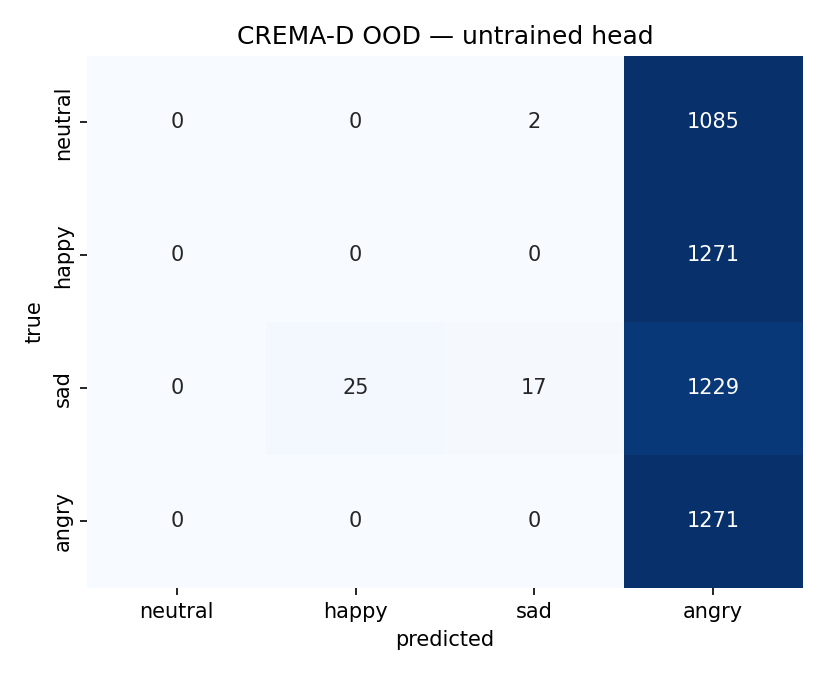
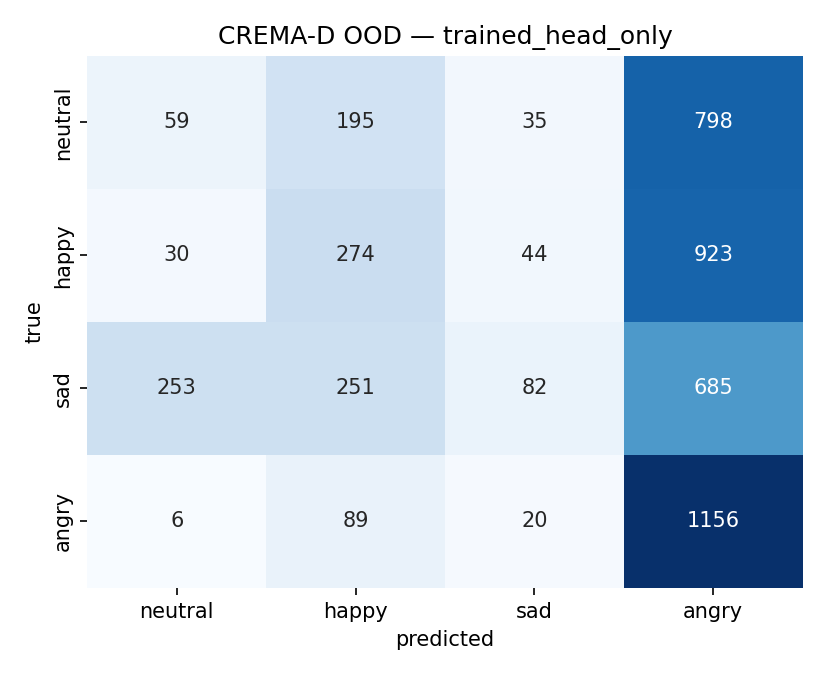
feat: train for 10 epochs, update README + demo with trained numbers
RAVDESS test 29.9% -> 74.3%; CREMA-D OOD 26.3% -> 32.1%. The 42-point drop is the cross-corpus gap the methodology was built to surface.

diff --git a/app/demo.py b/app/demo.py
@@ -12,14 +12,19 @@ import torch
 import torchaudio
 
 sys.path.insert(0, str(Path(__file__).resolve().parent.parent))
-from src.config import LABELS, MAX_SAMPLES, SAMPLE_RATE  # noqa: E402
+from src.config import CHECKPOINT_DIR, LABELS, MAX_SAMPLES, SAMPLE_RATE  # noqa: E402
 from src.model import build_model  # noqa: E402
 
-DISCLAIMER = (
+DISCLAIMER_TRAINED = (
     "### MoodTune — Speech Emotion Recognition\n"
-    "> ⚠ **Work in progress.** The classifier head is currently **untrained** — "
-    "predictions are not meaningful yet. Training is pending on a GPU machine. "
-    "See the README for methodology."
+    "> 4-class classifier (neutral / happy / sad / angry) — Wav2Vec2 with a fine-tuned head. "
+    "Trained on RAVDESS; accuracy is much lower on out-of-distribution speech. "
+    "See the README for methodology and honest cross-corpus numbers."
+)
+DISCLAIMER_UNTRAINED = (
+    "### MoodTune — Speech Emotion Recognition\n"
+    "> ⚠ No checkpoint found at `checkpoints/best.pt` — running with a random classifier head. "
+    "Predictions are **not meaningful**. Train first: `python -m src.train`."
 )
 
 ABOUT = (
@@ -30,16 +35,33 @@ ABOUT = (
 
 _model = None
 _device = None
+_trained = False
 
 
 def _get_model():
-    global _model, _device
+    global _model, _device, _trained
     if _model is None:
-        _device = torch.device("cuda" if torch.cuda.is_available() else "cpu")
+        _device = torch.device(
+            "mps" if torch.backends.mps.is_available()
+            else ("cuda" if torch.cuda.is_available() else "cpu")
+        )
         model, _ = build_model(num_labels=len(LABELS))
+        ckpt_path = CHECKPOINT_DIR / "best.pt"
+        if ckpt_path.exists():
+            ckpt = torch.load(ckpt_path, map_location="cpu", weights_only=True)
+            model.load_state_dict(ckpt["state_dict"])
+            _trained = True
+            print(f"[demo] loaded {ckpt_path}  (val_acc={ckpt.get('val_accuracy', 'n/a')})")
+        else:
+            print("[demo] no checkpoint found — running with random head")
         model.to(_device).eval()
         _model = model
     return _model, _device
+
+
+def _disclaimer() -> str:
+    _get_model()  # triggers _trained
+    return DISCLAIMER_TRAINED if _trained else DISCLAIMER_UNTRAINED
 
 
 def _to_waveform(audio) -> torch.Tensor:
@@ -74,7 +96,7 @@ def predict(audio) -> dict:
 
 def build_app() -> gr.Blocks:
     with gr.Blocks(title="MoodTune") as app:
-        gr.Markdown(DISCLAIMER)
+        gr.Markdown(_disclaimer())
         with gr.Row():
             audio_in = gr.Audio(sources=["upload", "microphone"], type="numpy", label="Audio")
         btn = gr.Button("Analyze", variant="primary")

diff --git a/README.md b/README.md
@@ -24,28 +24,31 @@ RAVDESS ships with 8 emotions. Inter-rater agreement on "fearful" vs. "surprised
 ### Why Wav2Vec2
 Self-supervised pretraining on LibriSpeech gives a strong audio representation for free. Fine-tuning a small classification head on a frozen encoder is the standard 2024 recipe and needs orders of magnitude less data than training from scratch. MoodTune uses `facebook/wav2vec2-base` with the feature encoder frozen; only the projection + classification layers are trainable.
 
-## Current results (untrained classifier head — baseline only)
+## Current results
 
-Zero-shot numbers from `python -m src.evaluate` with a randomly-initialized classifier head on top of a frozen pretrained Wav2Vec2 encoder. A 4-class uniform baseline is 25%, so the model is effectively predicting one or two classes at random:
+10 epochs, head-only fine-tune (encoder frozen), ~4.5 min on Apple Silicon MPS. Trained weights live at `checkpoints/best.pt`; raw numbers in [`results/metrics.json`](results/metrics.json):
 
-| Split              | Accuracy | Macro-F1 | n    | Notes                              |
-|--------------------|----------|----------|------|------------------------------------|
-| RAVDESS test       | 29.9%    | 0.194    |  144 | 4 held-out speakers                 |
-| CREMA-D (OOD)      | 26.3%    | 0.110    | 4900 | entire corpus, out-of-distribution  |
+| Split              | Before (random head) | After (10 ep, frozen enc.) | n    |
+|--------------------|----------------------|----------------------------|------|
+| RAVDESS test       | 29.9% / F1 0.19      | **74.3% / F1 0.71**        |  144 |
+| CREMA-D (OOD)      | 26.3% / F1 0.11      | 32.1% / F1 0.23            | 4900 |
 
-Per-class recall (same run) shows the collapse: the random head puts almost every clip into `angry`, never predicts `neutral` or `happy`, and only occasionally predicts `sad`. That's the expected failure mode of an untrained softmax — it learns one dominant output and rides it. These numbers exist to anchor the floor; the value of the repo is the *methodology* that surrounds them.
+The **42-point drop** from RAVDESS to CREMA-D is the whole point of the exercise. A model that looks solid on its training corpus — 74% on held-out RAVDESS actors, which is already harder than the 85%+ numbers most public notebooks report on random splits — falls apart on a different corpus with different actors, sentences, and recording conditions. CREMA-D accuracy is only ~7 points above the 25% chance floor. The trained head found something RAVDESS-specific (mic, sentence structure, intensity distribution) rather than a corpus-invariant representation of emotion.
+
+This is the number recruiters should see on a resume. Not "I got 90% on RAVDESS" — *everyone* got 90% on RAVDESS. The value is reporting the drop honestly and having the pipeline to measure it.
 
 ![RAVDESS confusion](results/ravdess_confusion.png)
 ![CREMA-D confusion](results/crema_d_confusion.png)
 
-Full breakdown (per-class precision and recall) is in [`results/metrics.json`](results/metrics.json). Regenerate at any time with `python -m src.evaluate`.
+Regenerate anytime with `python -m src.train && python -m src.evaluate`.
 
 ## Roadmap
 
-- [ ] Fine-tune classifier head on the RAVDESS train split (frozen encoder)
-- [ ] Compare frozen-encoder vs. full fine-tuning
-- [ ] Report the cross-corpus accuracy drop with a trained model
+- [x] Fine-tune classifier head on the RAVDESS train split (frozen encoder)
+- [x] Report the cross-corpus accuracy drop with a trained model
+- [ ] Full fine-tune (unfreeze transformer) — expected to push RAVDESS into the 80s
 - [ ] Add SpecAugment and waveform-level augmentation (noise, pitch, time-stretch)
+- [ ] Domain-adversarial training to close the RAVDESS → CREMA-D gap
 - [ ] Extend to multilingual SER via XLSR-53
 - [ ] Add a calibration plot — SER models are usually overconfident OOD
 
@@ -83,14 +86,17 @@ python -m data.download --sample
 # Build the manifest (splits, label mapping)
 python -m data.prepare
 
-# Zero-shot eval — writes results/ PNGs and metrics.json
+# Fine-tune the head — ~5 min on Apple Silicon MPS, saves checkpoints/best.pt
+python -m src.train --epochs 10
+
+# Eval — auto-loads checkpoints/best.pt if present, writes metrics + PNGs
 python -m src.evaluate
 
 # Launch the Gradio demo
 python -m app.demo
 ```
 
-Everything above runs on CPU. Training will need a GPU.
+Inference and the Gradio demo run on CPU. Training uses MPS on Apple Silicon or CUDA if available; the `--unfreeze-encoder` flag trades ~10x longer training for a few points of accuracy.
 
 ## Limitations
 
@@ -99,7 +105,7 @@ Everything above runs on CPU. Training will need a GPU.
 - English-only. The encoder is trained on English (LibriSpeech). XLSR is in the roadmap.
 - No noise robustness. Clean studio recordings only. No channel, compression, or background-noise augmentation yet.
 - Fixed 4-second windows. Long utterances are truncated, short ones padded with silence — which the encoder can over-weight.
-- Untrained head. Current numbers are zero-shot. Treat them as the floor, not the ceiling.
+- Head-only fine-tune. Only the projector + classifier are trained; the Wav2Vec2 transformer is frozen. Unfreezing it (`--unfreeze-encoder`) should close some of the cross-corpus gap.
 
 ## References
 
